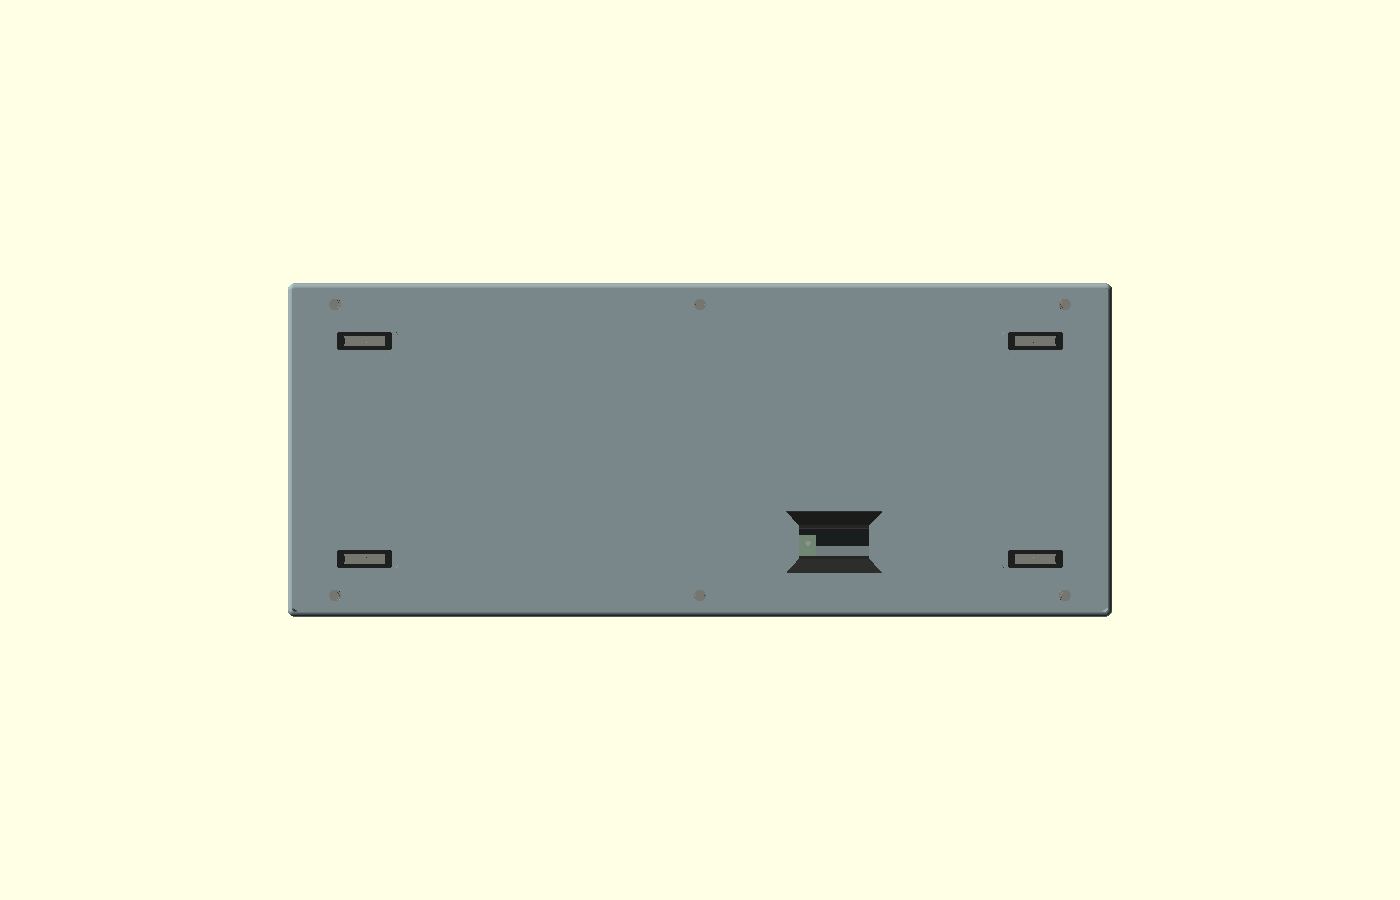
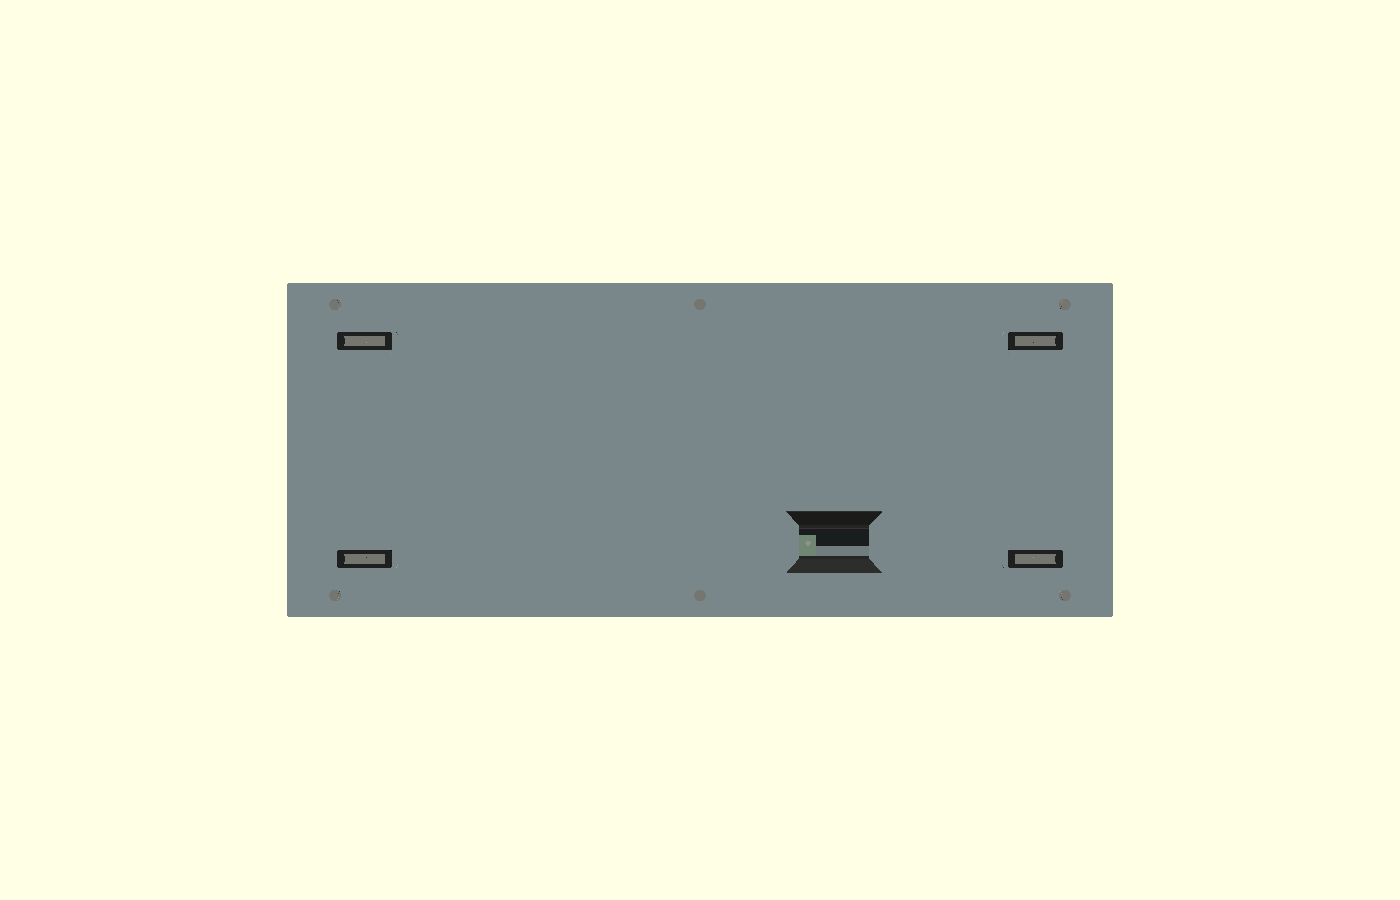
Correct keyboard shell lower rim and separate lid mounting tabs

Changed region(s): [[0.1843, 0.3111, 0.7986, 0.6844]]

diff --git a/models/robotron-1715m/keyboard/README.md b/models/robotron-1715m/keyboard/README.md
@@ -69,3 +69,10 @@ The underside cable opening has two opposing folded rubber strips, with the
 short metal edges exposed, following owner photo `PXL_20261009_133005363.jpg`.
 It is not a four-sided boot like the monitor outlet. Use
 `python3 render.py --view underside` to inspect this detail.
+
+The light shell now ends at a straight, open lower rim above the separate bottom
+lid, with six individual screw tabs. Inside photos `PXL_20261012_123048886.jpg`
+and `PXL_20261012_123907435.jpg` establish this construction. The previous
+spherical rounding rolled the shell underneath and is removed. Plan corner
+radius is approximately 1 mm per owner feedback; sheet thickness, tab dimensions
+and the 0.2 mm lid seam remain modeling estimates.
